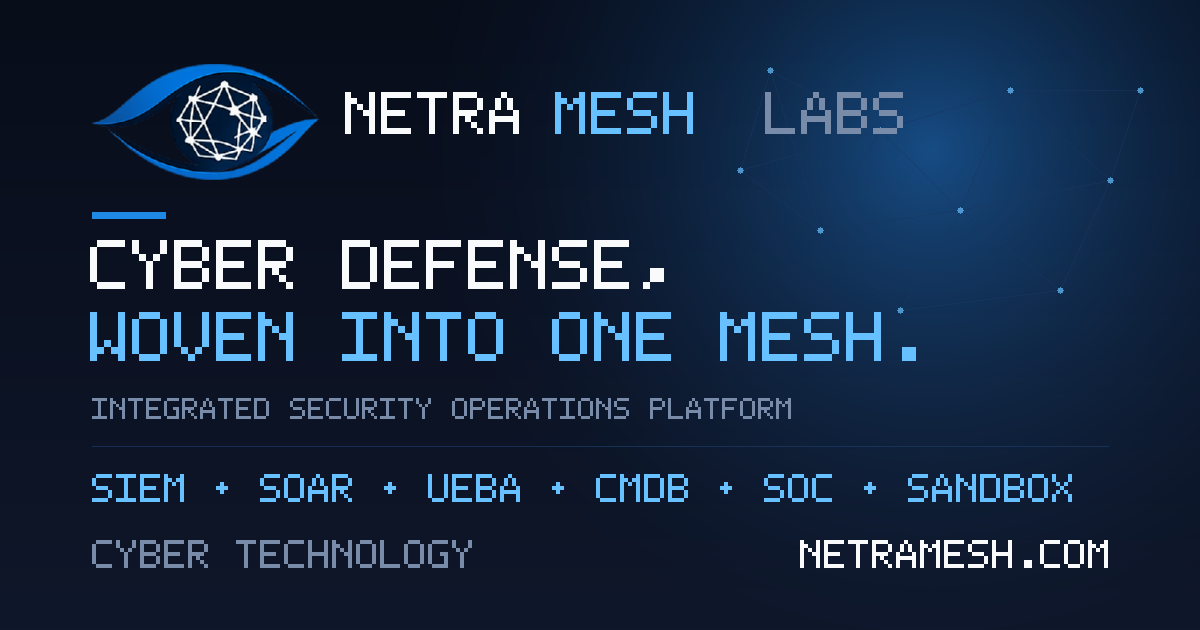
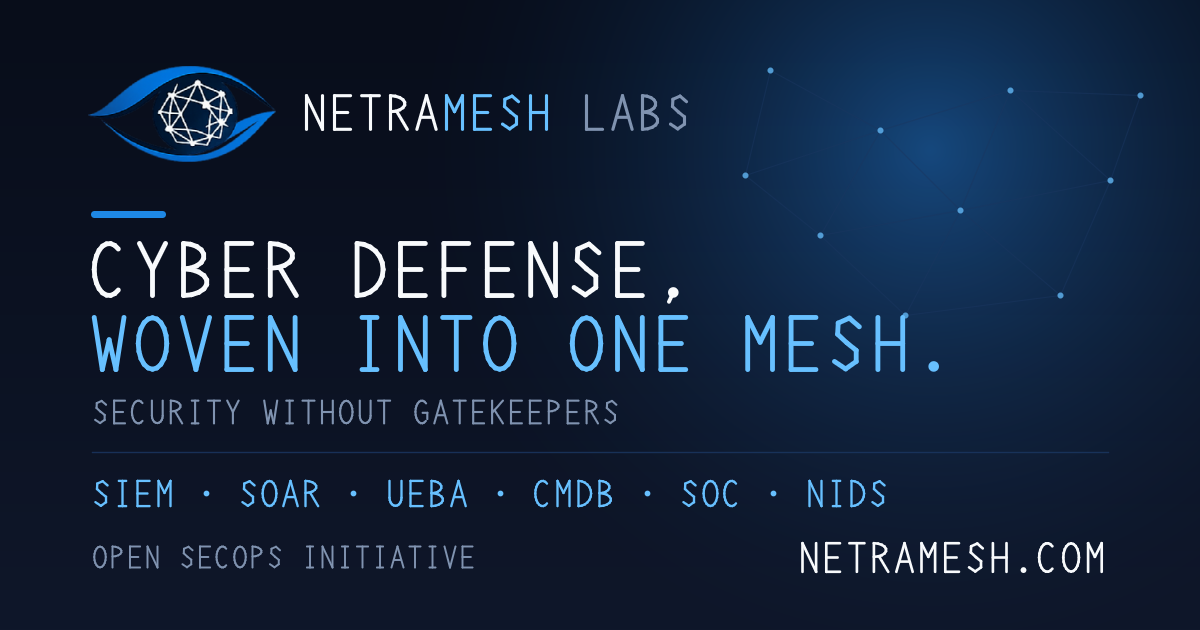
design(og): replace 8-bit bitmap font with anti-aliased monoline vector type for consistency with the site; align OG copy to brand DNA (rallying cry, initiative, NIDS)

diff --git a/tools/build-assets.py b/tools/build-assets.py
@@ -1,19 +1,21 @@
 #!/usr/bin/env python3
-"""Build NetraMesh brand assets from the uploaded logo (pure stdlib, no deps):
-  - assets/img/logo-icon.png   (tight eye+mesh icon, transparent) for navbar/footer
-  - assets/img/favicon.png     (64x64, eye icon centered)
-  - assets/img/og-image.png    (1200x630 share card, real logo composited)
+"""Build NetraMesh Labs brand assets from the uploaded logo (pure stdlib, no deps):
+  - assets/img/logo-icon.png        (eye+mesh icon, transparent) for navbar/footer
+  - assets/img/favicon.png          (64x64)
+  - assets/img/apple-touch-icon.png (180x180, navy bg)
+  - assets/img/og-image.png         (1200x630 share card)
+
+The OG card uses a hand-built ANTI-ALIASED monoline vector font (not a bitmap),
+so its typography reads clean/modern and stays consistent with the site.
 """
 import zlib, struct, math, os
 
-# Paths are relative to this script (tools/), so the repo is portable.
 IMGDIR = os.path.normpath(os.path.join(os.path.dirname(os.path.abspath(__file__)), "..", "assets", "img"))
 SRC = os.path.join(IMGDIR, "NetraMeshLabs.png")
 
 # ===================== PNG decode (8-bit RGBA) =====================
 def decode_png(path):
-    d = open(path, "rb").read()
-    pos = 8; W = Hh = 0; idat = b''
+    d = open(path, "rb").read(); pos = 8; W = Hh = 0; idat = b''
     while pos < len(d):
         ln = struct.unpack(">I", d[pos:pos+4])[0]; typ = d[pos+4:pos+8]
         data = d[pos+8:pos+8+ln]; pos += 12+ln
@@ -57,10 +59,8 @@ def write_png(path, w, h, rgba, rgb_only=False):
     with open(path, "wb") as f:
         f.write(b'\x89PNG\r\n\x1a\n' + chunk(b'IHDR', ihdr) + chunk(b'IDAT', idat) + chunk(b'IEND', b''))
 
-# ===================== area-average downscale (premultiplied) =====================
 def downscale(src, sw, sh, x0, y0, x1, y1, tw, th):
-    out = bytearray(tw*th*4)
-    bw = (x1-x0)/tw; bh = (y1-y0)/th
+    out = bytearray(tw*th*4); bw = (x1-x0)/tw; bh = (y1-y0)/th
     for ty in range(th):
         iy0 = int(y0+ty*bh); iy1 = max(int(math.ceil(y0+(ty+1)*bh)), iy0+1)
         for tx in range(tw):
@@ -74,7 +74,7 @@ def downscale(src, sw, sh, x0, y0, x1, y1, tw, th):
             oo = (ty*tw+tx)*4
             if aa > 0:
                 out[oo] = min(255, int(ar/aa)); out[oo+1] = min(255, int(ag/aa))
-                out[oo+2] = min(255, int(ab/aa)); out[oo+3] = int(aa/max(n,1)*255)
+                out[oo+2] = min(255, int(ab/aa)); out[oo+3] = int(aa/max(n, 1)*255)
             else:
                 out[oo+3] = 0
     return out
@@ -91,137 +91,173 @@ def content_bbox(src, sw, sh, xmin, xmax):
                 if y > y1: y1 = y
     return x0, y0, x1+1, y1+1
 
-# ===================== build icon + favicon =====================
+# ===================== icon / favicon / apple =====================
 SW, SH, SRCPX = decode_png(SRC)
-# icon lives left of the gap (~x448); text is to the right
 ix0, iy0, ix1, iy1 = content_bbox(SRCPX, SW, SH, 0, 448)
 icw, ich = ix1-ix0, iy1-iy0
-print(f"icon bbox: x{ix0}-{ix1} y{iy0}-{iy1}  ({icw}x{ich})")
+print(f"icon bbox: {icw}x{ich}")
 
-# logo-icon.png : preserve aspect, target height 160
-LH = 160; LW = round(icw * LH / ich)
-icon_full = downscale(SRCPX, SW, SH, ix0, iy0, ix1, iy1, LW, LH)
-write_png(IMGDIR + "/logo-icon.png", LW, LH, icon_full)
+LH = 160; LW = round(icw*LH/ich)
+write_png(IMGDIR + "/logo-icon.png", LW, LH, downscale(SRCPX, SW, SH, ix0, iy0, ix1, iy1, LW, LH))
 print("logo-icon.png", LW, "x", LH)
 
-# favicon.png : 64x64, icon centered (fit width)
-FS = 64; pad = 4; fw = FS-2*pad; fh = round(ich * fw / icw)
+FS = 64; pad = 4; fw = FS-2*pad; fh = round(ich*fw/icw)
 if fh > FS-2*pad: fh = FS-2*pad; fw = round(icw*fh/ich)
 fav_icon = downscale(SRCPX, SW, SH, ix0, iy0, ix1, iy1, fw, fh)
-fav = bytearray(FS*FS*4)
-ox = (FS-fw)//2; oy = (FS-fh)//2
+fav = bytearray(FS*FS*4); ox = (FS-fw)//2; oy = (FS-fh)//2
 for y in range(fh):
     for x in range(fw):
-        s = (y*fw+x)*4; dpx = ((oy+y)*FS+(ox+x))*4
-        fav[dpx:dpx+4] = fav_icon[s:s+4]
-write_png(IMGDIR + "/favicon.png", FS, FS, fav)
-print("favicon.png 64x64")
+        s = (y*fw+x)*4; fav[((oy+y)*FS+(ox+x))*4:((oy+y)*FS+(ox+x))*4+4] = fav_icon[s:s+4]
+write_png(IMGDIR + "/favicon.png", FS, FS, fav); print("favicon.png 64x64")
 
-# apple-touch-icon.png : 180x180, solid navy background, eye centered
 AS = 180; NAVY = (15, 23, 42)
 atouch = bytearray(AS*AS*4)
 for i in range(AS*AS):
-    o = i*4; atouch[o]=NAVY[0]; atouch[o+1]=NAVY[1]; atouch[o+2]=NAVY[2]; atouch[o+3]=255
-aw = 150; ah = round(ich*aw/icw)
-ai = downscale(SRCPX, SW, SH, ix0, iy0, ix1, iy1, aw, ah)
+    o = i*4; atouch[o] = NAVY[0]; atouch[o+1] = NAVY[1]; atouch[o+2] = NAVY[2]; atouch[o+3] = 255
+aw = 150; ah = round(ich*aw/icw); ai = downscale(SRCPX, SW, SH, ix0, iy0, ix1, iy1, aw, ah)
 axo = (AS-aw)//2; ayo = (AS-ah)//2
 for y in range(ah):
     for x in range(aw):
         s = (y*aw+x)*4; a = ai[s+3]/255.0
         if a > 0:
             dp = ((ayo+y)*AS+(axo+x))*4
-            atouch[dp]   = int(NAVY[0]*(1-a)+ai[s]*a)
-            atouch[dp+1] = int(NAVY[1]*(1-a)+ai[s+1]*a)
-            atouch[dp+2] = int(NAVY[2]*(1-a)+ai[s+2]*a)
-            atouch[dp+3] = 255
-write_png(IMGDIR + "/apple-touch-icon.png", AS, AS, atouch)
-print("apple-touch-icon.png 180x180")
+            atouch[dp] = int(NAVY[0]*(1-a)+ai[s]*a); atouch[dp+1] = int(NAVY[1]*(1-a)+ai[s+1]*a)
+            atouch[dp+2] = int(NAVY[2]*(1-a)+ai[s+2]*a); atouch[dp+3] = 255
+write_png(IMGDIR + "/apple-touch-icon.png", AS, AS, atouch); print("apple-touch-icon.png 180x180")
 
 # ===================== OG image 1200x630 =====================
 W, H = 1200, 630
 buf = bytearray(W*H*3)
-NAVY_TOP=(8,13,26); NAVY_BOT=(15,23,42); EBLUE=(30,136,229); LBLUE=(103,192,255)
-WHITE=(248,250,252); SLATE=(120,139,168); DIMBLUE=(26,54,96)
+NAVY_TOP = (8, 13, 26); NAVY_BOT = (15, 23, 42); EBLUE = (30, 136, 229)
+LBLUE = (103, 192, 255); WHITE = (248, 250, 252); SLATE = (128, 147, 176); DIMBLUE = (26, 54, 96)
 
 def setpx(x, y, c, a=1.0):
-    if 0 <= x < W and 0 <= y < H:
-        i = (y*W+x)*3
-        if a >= 1.0: buf[i], buf[i+1], buf[i+2] = c
+    xi = int(x); yi = int(y)
+    if 0 <= xi < W and 0 <= yi < H and a > 0:
+        i = (yi*W+xi)*3
+        if a >= 1: buf[i], buf[i+1], buf[i+2] = c
         else:
-            buf[i]=int(buf[i]*(1-a)+c[0]*a); buf[i+1]=int(buf[i+1]*(1-a)+c[1]*a); buf[i+2]=int(buf[i+2]*(1-a)+c[2]*a)
+            buf[i] = int(buf[i]*(1-a)+c[0]*a); buf[i+1] = int(buf[i+1]*(1-a)+c[1]*a); buf[i+2] = int(buf[i+2]*(1-a)+c[2]*a)
 
+# background gradient + radial glow
 gx, gy, gr = 930, 150, 560
 for y in range(H):
     t = y/(H-1)
-    br=int(NAVY_TOP[0]+(NAVY_BOT[0]-NAVY_TOP[0])*t); bg=int(NAVY_TOP[1]+(NAVY_BOT[1]-NAVY_TOP[1])*t); bb=int(NAVY_TOP[2]+(NAVY_BOT[2]-NAVY_TOP[2])*t)
-    row=(y*W)*3
+    br = int(NAVY_TOP[0]+(NAVY_BOT[0]-NAVY_TOP[0])*t); bg = int(NAVY_TOP[1]+(NAVY_BOT[1]-NAVY_TOP[1])*t); bb = int(NAVY_TOP[2]+(NAVY_BOT[2]-NAVY_TOP[2])*t)
+    row = y*W*3
     for x in range(W):
-        r,g,b=br,bg,bb; d=math.hypot(x-gx,y-gy)
-        if d<gr:
-            f=(1-d/gr)**2*0.45; r=min(255,int(r+EBLUE[0]*f)); g=min(255,int(g+EBLUE[1]*f)); b=min(255,int(b+EBLUE[2]*f))
-        i=row+x*3; buf[i],buf[i+1],buf[i+2]=r,g,b
+        r, g, b = br, bg, bb; d = math.hypot(x-gx, y-gy)
+        if d < gr:
+            f = (1-d/gr)**2*0.42; r = min(255, int(r+EBLUE[0]*f)); g = min(255, int(g+EBLUE[1]*f)); b = min(255, int(b+EBLUE[2]*f))
+        i = row+x*3; buf[i], buf[i+1], buf[i+2] = r, g, b
 
-def line(x0,y0,x1,y1,c,a=1.0):
-    dx=abs(x1-x0);dy=abs(y1-y0);sx=1 if x0<x1 else -1;sy=1 if y0<y1 else -1;err=dx-dy
-    while True:
-        setpx(x0,y0,c,a)
-        if x0==x1 and y0==y1:break
-        e2=2*err
-        if e2>-dy:err-=dy;x0+=sx
-        if e2<dx:err+=dx;y0+=sy
-def disc(cx,cy,r,c,a=1.0):
-    for yy in range(cy-r,cy+r+1):
-        for xx in range(cx-r,cx+r+1):
-            if (xx-cx)**2+(yy-cy)**2<=r*r: setpx(xx,yy,c,a)
-def rect(x,y,w,h,c):
-    for yy in range(y,y+h):
-        for xx in range(x,x+w): setpx(xx,yy,c)
+def line_seg(x0, y0, x1, y1, c, w, a=1.0):
+    """Anti-aliased thick segment (rounded) via distance field."""
+    minx = int(min(x0, x1)-w-1); maxx = int(max(x0, x1)+w+1)
+    miny = int(min(y0, y1)-w-1); maxy = int(max(y0, y1)+w+1)
+    dx = x1-x0; dy = y1-y0; L2 = dx*dx+dy*dy
+    hw = w/2.0
+    for py in range(miny, maxy+1):
+        for px in range(minx, maxx+1):
+            if L2 == 0: dist = math.hypot(px-x0, py-y0)
+            else:
+                tt = ((px-x0)*dx+(py-y0)*dy)/L2
+                tt = 0 if tt < 0 else (1 if tt > 1 else tt)
+                dist = math.hypot(px-(x0+tt*dx), py-(y0+tt*dy))
+            cov = hw - dist + 0.5
+            if cov > 0: setpx(px, py, c, min(1.0, cov)*a)
 
-# decorative mesh upper-right
-nodes=[(770,70),(880,130),(1010,90),(1110,180),(960,210),(820,230),(1060,290),(900,310),(1140,90),(740,170)]
+def disc(cx, cy, r, c, a=1.0):
+    for py in range(int(cy-r-1), int(cy+r+2)):
+        for px in range(int(cx-r-1), int(cx+r+2)):
+            cov = r - math.hypot(px-cx, py-cy) + 0.5
+            if cov > 0: setpx(px, py, c, min(1.0, cov)*a)
+
+def polyline(pts, sx, sy, s, c, w):
+    for k in range(len(pts)-1):
+        line_seg(sx+pts[k][0]*s, sy+pts[k][1]*s, sx+pts[k+1][0]*s, sy+pts[k+1][1]*s, c, w)
+
+def arc(cx, cy, rx, ry, a0, a1, n=14):
+    return [[cx+rx*math.cos(math.radians(a)), cy+ry*math.sin(math.radians(a))]
+            for a in [a0+(a1-a0)*i/n for i in range(n+1)]]
+
+# ---- monoline vector font (glyph = list of polylines in a 6x10 unit box, y down) ----
+def _bowl(cx, cy, rx, ry): return arc(cx, cy, rx, ry, -90, 90, 9)
+G = {
+ 'A': [[[0.6,9.2],[3,0.8],[5.4,9.2]],[[1.7,6.2],[4.3,6.2]]],
+ 'B': [[[1,0.8],[1,9.2]]] + [_bowl(1,2.85,3.3,2.05)] + [_bowl(1,7.05,3.8,2.15)],
+ 'C': [arc(3,5,2.4,4.2,52,308,16)],
+ 'D': [[[1,0.8],[1,9.2]], arc(1,5,4.2,4.2,-90,90,12)],
+ 'E': [[[1,0.8],[1,9.2]],[[1,0.8],[5,0.8]],[[1,5],[4.3,5]],[[1,9.2],[5,9.2]]],
+ 'F': [[[1,0.8],[1,9.2]],[[1,0.8],[5,0.8]],[[1,5],[4.3,5]]],
+ 'G': [arc(3,5,2.4,4.2,52,310,16),[[5.0,5.3],[3.3,5.3]],[[5.0,5.3],[5.0,7.6]]],
+ 'H': [[[1,0.8],[1,9.2]],[[5,0.8],[5,9.2]],[[1,5],[5,5]]],
+ 'I': [[[3,0.8],[3,9.2]],[[1.8,0.8],[4.2,0.8]],[[1.8,9.2],[4.2,9.2]]],
+ 'K': [[[1,0.8],[1,9.2]],[[1,5.3],[5,0.8]],[[1.9,4.3],[5,9.2]]],
+ 'L': [[[1,0.8],[1,9.2],[5,9.2]]],
+ 'M': [[[1,9.2],[1,0.8],[3,4.8],[5,0.8],[5,9.2]]],
+ 'N': [[[1,9.2],[1,0.8],[5,9.2],[5,0.8]]],
+ 'O': [arc(3,5,2.3,4.15,0,360,20)],
+ 'P': [[[1,0.8],[1,9.2]]] + [_bowl(1,2.8,3.6,2.0)],
+ 'R': [[[1,0.8],[1,9.2]]] + [_bowl(1,2.8,3.6,2.0)] + [[[2.6,4.8],[5.2,9.2]]],
+ 'S': [[[5,2.3],[3.4,0.9],[1.6,1.7],[1.5,3.5],[3,4.9],[4.5,6.1],[4.5,7.9],[2.8,9.1],[1,7.9]]],
+ 'T': [[[0.8,0.8],[5.2,0.8]],[[3,0.8],[3,9.2]]],
+ 'U': [[[1,0.8],[1,6.4]]] + [arc(3,6.4,2,2.7,0,180,10)] + [[[5,6.4],[5,0.8]]],
+ 'V': [[[0.8,0.8],[3,9.2],[5.2,0.8]]],
+ 'W': [[[0.6,0.8],[1.9,9.2],[3,4.4],[4.1,9.2],[5.4,0.8]]],
+ 'Y': [[[0.9,0.8],[3,5],[5.1,0.8]],[[3,5],[3,9.2]]],
+ '-': [[[1.4,5],[4.6,5]]],
+ '/': [[[1,9.2],[5,0.8]]],
+}
+def text_w(s, txt): return len(txt)*7*s
+def text(x, ytop, txt, s, c):
+    w = max(1.5, s*0.78)
+    for ch in txt.upper():
+        if ch == ' ': x += 7*s; continue
+        if ch == '.': disc(x+3*s, ytop+8.7*s, max(1.3, s*0.85), c)
+        elif ch == ',':
+            disc(x+3*s, ytop+8.7*s, max(1.3, s*0.85), c); line_seg(x+3*s, ytop+8.7*s, x+2.3*s, ytop+10.2*s, c, w*0.8)
+        elif ch == '·': disc(x+3*s, ytop+5*s, max(1.4, s*0.95), c)
+        elif ch in G:
+            for pl in G[ch]: polyline(pl, x, ytop, s, c, w)
+        x += 7*s
+
+# decorative mesh (upper-right)
+nodes = [(770,70),(880,130),(1010,90),(1110,180),(960,210),(820,235),(1060,295),(905,315),(1140,95),(745,175)]
 for i,(ax,ay) in enumerate(nodes):
     for (bx,by) in nodes[i+1:]:
-        if math.hypot(ax-bx,ay-by)<170: line(ax,ay,bx,by,DIMBLUE,0.55)
-for (ax,ay) in nodes: disc(ax,ay,3,LBLUE,0.7)
+        if math.hypot(ax-bx, ay-by) < 170: line_seg(ax, ay, bx, by, DIMBLUE, 1.2, 0.5)
+for (ax,ay) in nodes: disc(ax, ay, 3, LBLUE, 0.75)
 
-# composite REAL logo icon (downscaled) onto OG
-OGIH = 116
-ogiw = round(icw*OGIH/ich)
+# real logo (composited)
+OGIH = 96; ogiw = round(icw*OGIH/ich)
 ogicon = downscale(SRCPX, SW, SH, ix0, iy0, ix1, iy1, ogiw, OGIH)
-lx, ly = 92, 64
+lx, ly = 88, 66
 for y in range(OGIH):
     for x in range(ogiw):
-        s=(y*ogiw+x)*4; a=ogicon[s+3]/255.0
-        if a>0: setpx(lx+x, ly+y, (ogicon[s],ogicon[s+1],ogicon[s+2]), a)
+        s = (y*ogiw+x)*4; a = ogicon[s+3]/255.0
+        if a > 0: setpx(lx+x, ly+y, (ogicon[s], ogicon[s+1], ogicon[s+2]), a)
 
-# ---- 5x7 font ----
-FONT={'A':["  #  "," # # "," # # ","#   #","#####","#   #","#   #"],'B':["#### ","#   #","#   #","#### ","#   #","#   #","#### "],'C':[" ####","#    ","#    ","#    ","#    ","#    "," ####"],'D':["#### ","#   #","#   #","#   #","#   #","#   #","#### "],'E':["#####","#    ","#    ","#### ","#    ","#    ","#####"],'F':["#####","#    ","#    ","#### ","#    ","#    ","#    "],'G':[" ####","#    ","#    ","#  ##","#   #","#   #"," ####"],'H':["#   #","#   #","#   #","#####","#   #","#   #","#   #"],'I':["#####","  #  ","  #  ","  #  ","  #  ","  #  ","#####"],'J':["#####","   # ","   # ","   # ","#  # ","#  # "," ##  "],'K':["#   #","#  # ","# #  ","##   ","# #  ","#  # ","#   #"],'L':["#    ","#    ","#    ","#    ","#    ","#    ","#####"],'M':["#   #","## ##","# # #","#   #","#   #","#   #","#   #"],'N':["#   #","##  #","# # #","#  ##","#   #","#   #","#   #"],'O':[" ### ","#   #","#   #","#   #","#   #","#   #"," ### "],'P':["#### ","#   #","#   #","#### ","#    ","#    ","#    "],'Q':[" ### ","#   #","#   #","#   #","# # #","#  # "," ## #"],'R':["#### ","#   #","#   #","#### ","# #  ","#  # ","#   #"],'S':[" ####","#    ","#    "," ### ","    #","    #","#### "],'T':["#####","  #  ","  #  ","  #  ","  #  ","  #  ","  #  "],'U':["#   #","#   #","#   #","#   #","#   #","#   #"," ### "],'V':["#   #","#   #","#   #","#   #","#   #"," # # ","  #  "],'W':["#   #","#   #","#   #","#   #","# # #","## ##","#   #"],'X':["#   #","#   #"," # # ","  #  "," # # ","#   #","#   #"],'Y':["#   #","#   #"," # # ","  #  ","  #  ","  #  ","  #  "],'Z':["#####","    #","   # ","  #  "," #   ","#    ","#####"],'0':[" ### ","#   #","#  ##","# # #","##  #","#   #"," ### "],'1':["  #  "," ##  ","  #  ","  #  ","  #  ","  #  ","#####"],'2':[" ### ","#   #","    #","   # ","  #  "," #   ","#####"],'3':["#####","   # ","  #  ","   # ","    #","#   #"," ### "],'4':["   # ","  ## "," # # ","#  # ","#####","   # ","   # "],'5':["#####","#    ","#### ","    #","    #","#   #"," ### "],'6':[" ### ","#    ","#    ","#### ","#   #","#   #"," ### "],'7':["#####","    #","   # ","  #  "," #   "," #   "," #   "],'8':[" ### ","#   #","#   #"," ### ","#   #","#   #"," ### "],'9':[" ### ","#   #","#   #"," ####","    #","    #"," ### "],' ':["     ","     ","     ","     ","     ","     ","     "],'.':["     ","     ","     ","     ","     ","  ## ","  ## "],',':["     ","     ","     ","     ","  ## ","  ## "," #   "],'/':["    #","    #","   # ","  #  "," #   ","#    ","#    "],'&':[" ##  ","#  # ","#  # "," ##  ","# # #","#  # "," ## #"],'-':["     ","     ","     ","#####","     ","     ","     "],':':["     ","  ## ","  ## ","     ","  ## ","  ## ","     "],'·':["     ","     ","  #  "," ### ","  #  ","     ","     "]}
-def text_w(s,sc): return len(s)*6*sc-sc
-def text(x,y,s,sc,c):
-    for ch in s.upper():
-        g=FONT.get(ch,FONT[' '])
-        for r in range(7):
-            rb=g[r]
-            for col in range(5):
-                if rb[col]=='#':
-                    px=x+col*sc;py=y+r*sc
-                    for dy in range(sc):
-                        for dx in range(sc): setpx(px+dx,py+dy,c)
-        x+=6*sc
-
-# wordmark next to icon
+# wordmark beside logo
 wx = lx + ogiw + 26
-for s,c in [("NETRA",WHITE),("MESH",LBLUE),(" LABS",SLATE)]:
-    text(wx, 92, s, 6, c); wx += text_w(s,6)+6*6
+text(wx, 92, "NETRA", 4.0, WHITE);  wx += text_w(4.0, "NETRA")
+text(wx, 92, "MESH", 4.0, LBLUE);   wx += text_w(4.0, "MESH")
+text(wx, 92, " LABS", 4.0, SLATE)
 
-rect(92,212,74,7,EBLUE)
-text(90,240,"CYBER DEFENSE,",7,WHITE)
-text(90,312,"WOVEN INTO ONE MESH.",7,LBLUE)
-text(92,398,"INTEGRATED SECURITY OPERATIONS PLATFORM",3,SLATE)
-line(92,446,1108,446,DIMBLUE,0.8)
-text(92,474,"SIEM · SOAR · UEBA · CMDB · SOC · SANDBOX",4,LBLUE)
-dom="NETRAMESH.COM"; text(1108-text_w(dom,4),540,dom,4,WHITE)
-text(92,540,"CYBER TECHNOLOGY",4,SLATE)
+# accent bar + headline
+line_seg(94, 214, 162, 214, EBLUE, 7)
+text(90, 238, "CYBER DEFENSE,", 6.2, WHITE)
+text(90, 312, "WOVEN INTO ONE MESH.", 6.2, LBLUE)
+
+# rallying cry
+text(92, 398, "SECURITY WITHOUT GATEKEEPERS", 2.7, SLATE)
+
+# divider + chips + footer line
+line_seg(92, 452, 1108, 452, DIMBLUE, 1.4, 0.85)
+text(92, 478, "SIEM · SOAR · UEBA · CMDB · SOC · NIDS", 3.0, LBLUE)
+text(92, 544, "OPEN SECOPS INITIATIVE", 2.5, SLATE)
+dom = "NETRAMESH.COM"
+text(1108-text_w(3.4, dom), 540, dom, 3.4, WHITE)
 
 write_png(IMGDIR + "/og-image.png", W, H, buf, rgb_only=True)
 print("og-image.png 1200x630")